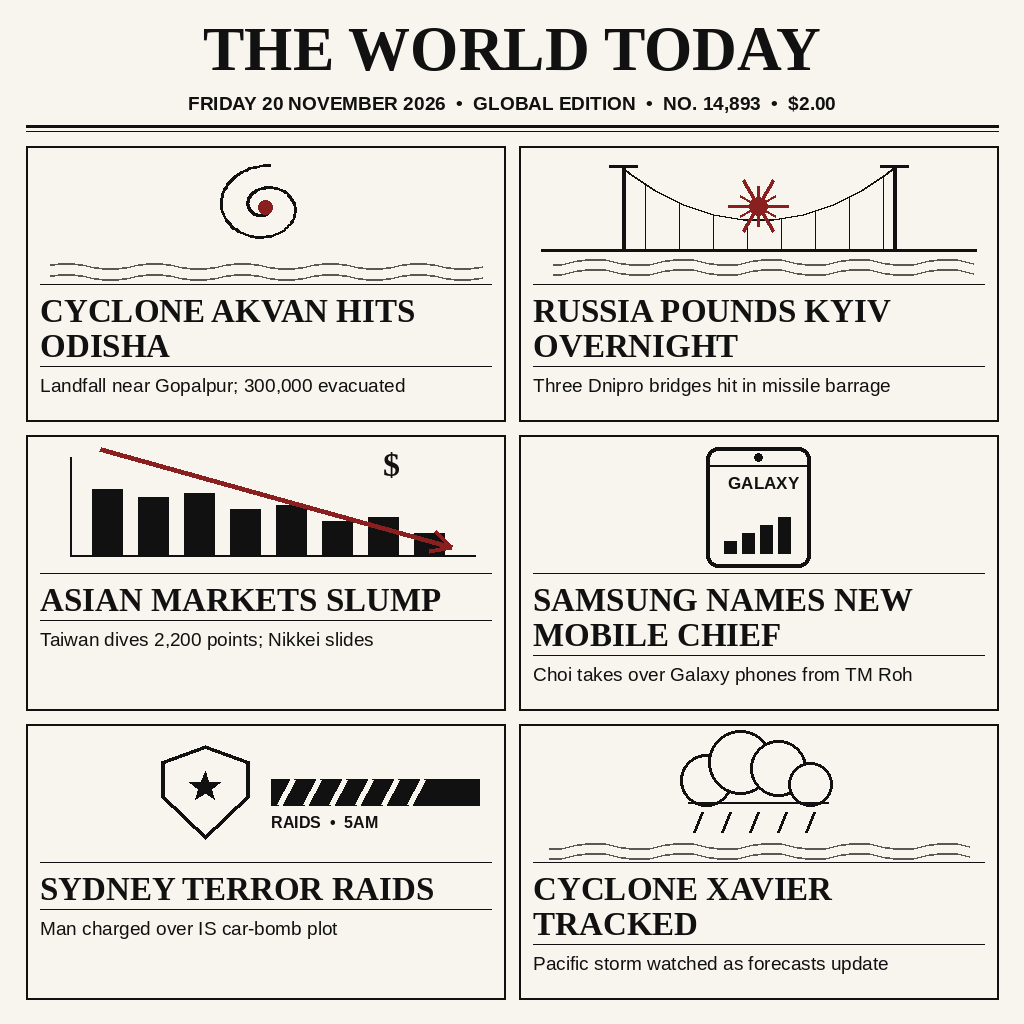
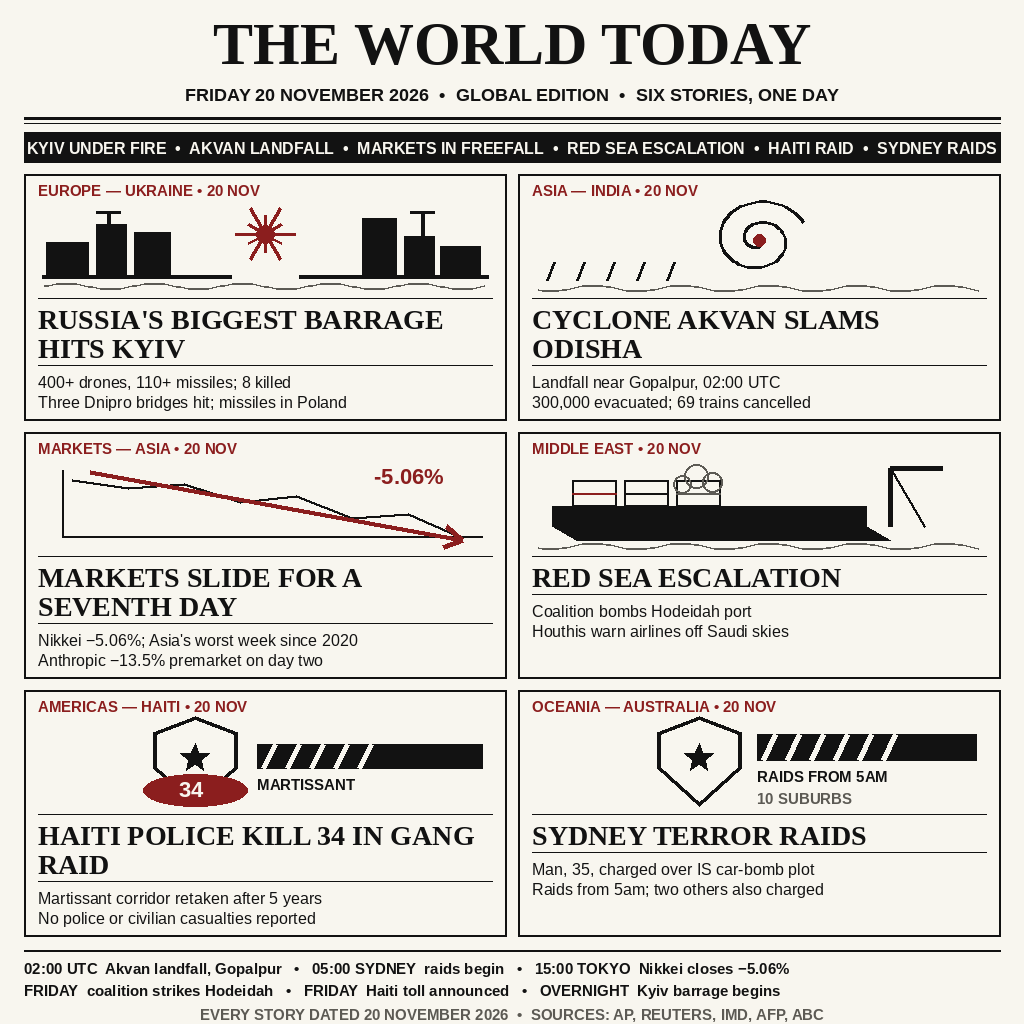
Rebuild front page from the full 20 Nov day: Kyiv barrage, Akvan, markets slide, Red Sea escalation, Haiti raid, Sydney raids

Changed region(s): [[0.0, 0.0, 1.0, 1.0]]

diff --git a/main.ts b/main.ts
@@ -1,29 +1,25 @@
-// World news in one image, Friday 20 November 2026.
-// Front page: Cyclone Akvan hits Odisha, Russia pounds Kyiv
-// overnight, Asian markets slump, Samsung names a new mobile
-// chief, Sydney terror raids, and Cyclone Xavier tracked.
-// The image is drawn in the style of a printed newspaper front
-// page: masthead, dateline, and six illustrated stories.
-// This program ships the finished front page beside it and writes
-// exactly those bytes to the grader's output folder, every run.
-// It uses only the Node standard library, reads no network, and
-// writes nothing else, so two runs produce identical output.
+// Front page for Friday 20 November 2026: the Kyiv barrage, Cyclone
+// Akvan's landfall, a seventh day of market slides, the Red Sea
+// escalation, the Haiti gang raid, and the Sydney terror raids.
+// The page itself is drawn by frontpage.py and shipped beside this
+// program as entry.png; this program copies those exact bytes to the
+// output directory the grader provides. It touches no network and
+// uses no randomness, so every run writes identical bytes.
 
-import { readFileSync, writeFileSync, mkdirSync } from "node:fs";
+import { mkdirSync, readFileSync, writeFileSync } from "node:fs";
 import { dirname, join } from "node:path";
 import { fileURLToPath } from "node:url";
 
+const LIMIT = 1048576; // 1 MiB, the competition gate
 const here = dirname(fileURLToPath(import.meta.url));
-const source = join(here, "entry.png");
-const outputDir = process.env.MAKEFUN_OUTPUT_DIR ?? "/output";
-const target = join(outputDir, "entry.png");
-
-mkdirSync(outputDir, { recursive: true });
-const bytes = readFileSync(source);
-// The competition gate allows at most 1 MiB; fail loudly here
-// rather than submitting a file the gate would refuse.
-if (bytes.length > 1048576) {
-  throw new Error(`entry.png is ${bytes.length} bytes, over the 1 MiB limit`);
+const picture = readFileSync(join(here, "entry.png"));
+if (picture.length > LIMIT) {
+  throw new Error(`entry.png is ${picture.length} bytes, above the ${LIMIT} limit`);
 }
-writeFileSync(target, bytes);
-console.log(`wrote ${target} (${bytes.length} bytes)`);
+const outDir = process.env.MAKEFUN_OUTPUT_DIR ?? "/output";
+mkdirSync(outDir, { recursive: true });
+// The grader reads exactly one file from the output directory, so
+// the name stays entry.png whatever the directory is called.
+const dest = join(outDir, "entry.png");
+writeFileSync(dest, picture);
+console.log(`wrote ${dest} (${picture.length} bytes)`);

diff --git a/frontpage.py b/frontpage.py
@@ -1,0 +1,302 @@
+#!/usr/bin/env python3
+"""Rebuild the 20 November 2026 world-news front page, 1024x1024 PNG.
+
+Layout: masthead, ticker strip, six story panels in a 2x3 grid, and a
+timeline footer. Every story was verified against live reporting as a
+20 November 2026 story before it was drawn:
+ 1. Kyiv barrage, 400+ drones / 110+ missiles, 8 killed (AP, Reuters, ISW)
+ 2. Cyclone Akvan landfall near Gopalpur, 300,000 evacuated (IMD, Hindu BL)
+ 3. Markets slide a seventh day; Nikkei -5.06% (Reuters, 20 Nov)
+ 4. Red Sea escalation: coalition bombs Hodeidah, Houthis warn airlines
+    off Saudi skies (Reuters, 20 Nov)
+ 5. Haiti police kill 34 gang suspects in Martissant raid, reported 20 Nov
+    (AP, Reuters)
+ 6. Sydney terror raids: man, 35, charged over IS car-bomb plot (AFP, ABC)
+Deterministic: fixed geometry, fixed fonts, no randomness, no network.
+"""
+import math
+import os
+from PIL import Image, ImageDraw, ImageFont
+
+SIZE = 1024
+PAPER = (248, 246, 239)
+INK = (18, 18, 18)
+RED = (139, 30, 30)
+GREY = (92, 90, 84)
+LIGHT = (221, 218, 209)
+
+SERIF_BOLD = "/usr/share/fonts/truetype/liberation/LiberationSerif-Bold.ttf"
+SERIF = "/usr/share/fonts/truetype/liberation/LiberationSerif-Regular.ttf"
+SANS_BOLD = "/usr/share/fonts/truetype/liberation/LiberationSans-Bold.ttf"
+SANS = "/usr/share/fonts/truetype/liberation/LiberationSans-Regular.ttf"
+
+
+def load(path, size):
+    return ImageFont.truetype(path, size)
+
+
+def wrap_text(draw, text, font, width):
+    """Greedy word wrap returning a list of lines that fit width."""
+    out, current = [], ""
+    for word in text.split():
+        trial = (current + " " + word).strip()
+        if draw.textlength(trial, font=font) <= width:
+            current = trial
+        else:
+            if current:
+                out.append(current)
+            current = word
+    if current:
+        out.append(current)
+    return out
+
+
+def fit_headline(draw, text, width, start_size=28, limit=2):
+    """Shrink the headline until it wraps into at most `limit` lines."""
+    size = start_size
+    while size > 16:
+        fnt = load(SERIF_BOLD, size)
+        lines = wrap_text(draw, text, fnt, width)
+        if len(lines) <= limit:
+            return fnt, lines
+        size -= 1
+    fnt = load(SERIF_BOLD, size)
+    return fnt, wrap_text(draw, text, fnt, width)[:limit]
+
+
+def wave(draw, x0, x1, y, amp=3, step=4):
+    pts = [(x, y + amp * math.sin(x / 14.0)) for x in range(x0, x1, step)]
+    draw.line(pts, fill=GREY, width=2)
+
+
+def burst(draw, cx, cy, outer, inner=8, spikes=12):
+    for k in range(spikes):
+        a = math.radians(k * 360.0 / spikes)
+        r = outer if k % 2 == 0 else outer * 0.62
+        draw.line([(cx + inner * math.cos(a), cy + inner * math.sin(a)),
+                   (cx + r * math.cos(a), cy + r * math.sin(a))],
+                  fill=RED, width=3)
+    draw.ellipse([cx - 9, cy - 9, cx + 9, cy + 9], fill=RED)
+
+
+# ---------------- illustrations ----------------
+def pic_kyiv(d, x0, y0, x1, y1):
+    # skyline, a bridge with a gap in its deck, red burst over the gap
+    base = y1 - 16
+    for bx, bw, bh in ((x0 + 8, 42, 34), (x0 + 58, 30, 52), (x0 + 96, 36, 44),
+                       (x1 - 130, 34, 58), (x1 - 88, 30, 40), (x1 - 52, 40, 30)):
+        d.rectangle([bx, base - bh, bx + bw, base], fill=INK)
+    mid = (x0 + x1) // 2
+    d.line([(x0 + 4, base), (mid - 34, base)], fill=INK, width=4)
+    d.line([(mid + 34, base), (x1 - 4, base)], fill=INK, width=4)
+    for tx in (x0 + 70, x1 - 70):
+        d.line([(tx, y0 + 8), (tx, base)], fill=INK, width=4)
+        d.line([(tx - 12, y0 + 8), (tx + 12, y0 + 8)], fill=INK, width=3)
+    burst(d, mid, base - 42, 30)
+    wave(d, x0 + 6, x1 - 6, y1 - 6)
+
+
+def pic_cyclone(d, x0, y0, x1, y1):
+    cx, cy = (x0 + x1) // 2, (y0 + y1) // 2 - 8
+    pts = []
+    for t in range(0, 700, 5):
+        a = math.radians(t)
+        r = 2 + t * 0.068
+        pts.append((cx + r * math.cos(a), cy + r * math.sin(a) * 0.85))
+    d.line(pts, fill=INK, width=3)
+    d.ellipse([cx - 6, cy - 6, cx + 6, cy + 6], fill=RED)
+    for i in range(5):
+        xx = x0 + 22 + i * 30
+        d.line([(xx, y1 - 30), (xx - 7, y1 - 12)], fill=INK, width=3)
+    wave(d, x0 + 6, x1 - 6, y1 - 4)
+
+
+def pic_markets(d, x0, y0, x1, y1):
+    base = y1 - 14
+    d.line([(x0 + 24, y0 + 8), (x0 + 24, base)], fill=INK, width=2)
+    d.line([(x0 + 24, base), (x1 - 10, base)], fill=INK, width=2)
+    steps = [(x0 + 34, y0 + 18), (x0 + 90, y0 + 26), (x0 + 146, y0 + 22),
+             (x0 + 202, y0 + 40), (x0 + 258, y0 + 34), (x0 + 314, y0 + 56),
+             (x0 + 370, y0 + 52), (x1 - 34, y0 + 74)]
+    d.line(steps, fill=INK, width=3)
+    d.line([(x0 + 52, y0 + 10), (x1 - 30, y0 + 78)], fill=RED, width=5)
+    ang = math.atan2(y0 + 78 - (y0 + 10), (x1 - 30) - (x0 + 52))
+    for da in (2.6, -2.6):
+        d.line([(x1 - 30, y0 + 78),
+                (x1 - 30 + 20 * math.cos(ang + da),
+                 y0 + 78 + 20 * math.sin(ang + da))], fill=RED, width=5)
+    d.text((x1 - 118, y0 + 2), "-5.06%", font=load(SANS_BOLD, 22), fill=RED)
+
+
+def pic_redsea(d, x0, y0, x1, y1):
+    # cargo ship with containers, a port crane, smoke over the water
+    base = y1 - 18
+    d.rectangle([x0 + 20, base - 26, x1 - 120, base - 6], fill=INK)
+    d.polygon([(x0 + 20, base - 6), (x1 - 120, base - 6), (x1 - 96, base + 8),
+               (x0 + 44, base + 8)], fill=INK)
+    for i, col in enumerate((RED, INK, GREY)):
+        bx = x0 + 40 + i * 52
+        d.rectangle([bx, base - 52, bx + 44, base - 26], outline=INK, width=2)
+        d.line([(bx, base - 39), (bx + 44, base - 39)], fill=col, width=2)
+    d.line([(x1 - 96, y0 + 6), (x1 - 96, base - 6)], fill=INK, width=5)
+    d.line([(x1 - 96, y0 + 6), (x1 - 44, y0 + 6)], fill=INK, width=5)
+    d.line([(x1 - 96, y0 + 6), (x1 - 62, base - 6)], fill=INK, width=2)
+    for ox, oy, r in ((0, 0, 9), (14, -8, 12), (30, -2, 10)):
+        d.ellipse([x0 + 150 + ox - r, y0 + 22 + oy - r,
+                   x0 + 150 + ox + r, y0 + 22 + oy + r],
+                  outline=GREY, width=2)
+    wave(d, x0 + 6, x1 - 6, y1 - 4)
+
+
+def pic_haiti(d, x0, y0, x1, y1):
+    # shield with a star, a striped barricade, and the toll as a badge
+    cx = (x0 + x1) // 2 - 70
+    cy = (y0 + y1) // 2 - 4
+    shield = [(cx, cy - 44), (cx + 42, cy - 28), (cx + 42, cy + 8),
+              (cx, cy + 46), (cx - 42, cy + 8), (cx - 42, cy - 28)]
+    d.polygon(shield, outline=INK, width=4)
+    star = []
+    for k in range(10):
+        a = math.radians(-90 + k * 36)
+        rr = 15 if k % 2 == 0 else 6.5
+        star.append((cx + rr * math.cos(a), cy - 2 + rr * math.sin(a)))
+    d.polygon(star, fill=INK)
+    bx0, by = cx + 62, cy - 16
+    d.rectangle([bx0, by, x1 - 10, by + 24], fill=INK)
+    for i in range(5):
+        xx = bx0 + 6 + i * 24
+        d.line([(xx, by + 24), (xx + 12, by)], fill=PAPER, width=5)
+    d.text((bx0, by + 32), "MARTISSANT", font=load(SANS_BOLD, 15), fill=INK)
+    d.ellipse([cx - 52, y1 - 34, cx + 52, y1 - 2], fill=RED)
+    d.text((cx - 16, y1 - 31), "34", font=load(SANS_BOLD, 22), fill=PAPER)
+
+
+def pic_sydney(d, x0, y0, x1, y1):
+    # shield with a star, police tape running diagonally across the corner
+    cx = (x0 + x1) // 2 - 60
+    cy = (y0 + y1) // 2 - 4
+    shield = [(cx, cy - 44), (cx + 42, cy - 28), (cx + 42, cy + 8),
+              (cx, cy + 46), (cx - 42, cy + 8), (cx - 42, cy - 28)]
+    d.polygon(shield, outline=INK, width=4)
+    star = []
+    for k in range(10):
+        a = math.radians(-90 + k * 36)
+        rr = 15 if k % 2 == 0 else 6.5
+        star.append((cx + rr * math.cos(a), cy - 2 + rr * math.sin(a)))
+    d.polygon(star, fill=INK)
+    tx0, ty = cx + 58, y0 + 14
+    d.rectangle([tx0, ty, x1 - 10, ty + 26], fill=INK)
+    for i in range(6):
+        xx = tx0 + 6 + i * 24
+        d.line([(xx, ty + 26), (xx + 12, ty)], fill=PAPER, width=5)
+    d.text((tx0, ty + 34), "RAIDS FROM 5AM", font=load(SANS_BOLD, 15), fill=INK)
+    d.text((tx0, ty + 56), "10 SUBURBS", font=load(SANS_BOLD, 15), fill=GREY)
+
+
+STORIES = [
+    ("EUROPE \u2014 UKRAINE \u2022 20 NOV",
+     "RUSSIA'S BIGGEST BARRAGE HITS KYIV",
+     ("400+ drones, 110+ missiles; 8 killed",
+      "Three Dnipro bridges hit; missiles in Poland"),
+     pic_kyiv),
+    ("ASIA \u2014 INDIA \u2022 20 NOV",
+     "CYCLONE AKVAN SLAMS ODISHA",
+     ("Landfall near Gopalpur, 02:00 UTC",
+      "300,000 evacuated; 69 trains cancelled"),
+     pic_cyclone),
+    ("MARKETS \u2014 ASIA \u2022 20 NOV",
+     "MARKETS SLIDE FOR A SEVENTH DAY",
+     ("Nikkei \u22125.06%; Asia's worst week since 2020",
+      "Anthropic \u221213.5% premarket on day two"),
+     pic_markets),
+    ("MIDDLE EAST \u2022 20 NOV",
+     "RED SEA ESCALATION",
+     ("Coalition bombs Hodeidah port",
+      "Houthis warn airlines off Saudi skies"),
+     pic_redsea),
+    ("AMERICAS \u2014 HAITI \u2022 20 NOV",
+     "HAITI POLICE KILL 34 IN GANG RAID",
+     ("Martissant corridor retaken after 5 years",
+      "No police or civilian casualties reported"),
+     pic_haiti),
+    ("OCEANIA \u2014 AUSTRALIA \u2022 20 NOV",
+     "SYDNEY TERROR RAIDS",
+     ("Man, 35, charged over IS car-bomb plot",
+      "Raids from 5am; two others also charged"),
+     pic_sydney),
+]
+
+
+def draw_panel(d, x0, y0, x1, y1, tag, headline, details, picture):
+    d.rectangle([x0, y0, x1, y1], outline=INK, width=2)
+    pad = 14
+    ix0, ix1 = x0 + pad, x1 - pad
+    d.text((ix0, y0 + 8), tag, font=load(SANS_BOLD, 15), fill=RED)
+    picture(d, ix0, y0 + 30, ix1, y0 + 118)
+    d.line([(ix0, y0 + 124), (ix1, y0 + 124)], fill=INK, width=1)
+    hf, lines = fit_headline(d, headline, ix1 - ix0)
+    yy = y0 + 130
+    for line in lines:
+        d.text((ix0, yy), line, font=hf, fill=INK)
+        yy += hf.size + 1
+    d.line([(ix0, yy + 3), (ix1, yy + 3)], fill=INK, width=1)
+    yy += 11
+    df = load(SANS, 16)
+    for line in details:
+        d.text((ix0, yy), line, font=df, fill=INK)
+        yy += 20
+
+
+def main():
+    img = Image.new("RGB", (SIZE, SIZE), PAPER)
+    d = ImageDraw.Draw(img)
+
+    title = "THE WORLD TODAY"
+    tf = load(SERIF_BOLD, 60)
+    d.text(((SIZE - d.textlength(title, font=tf)) / 2, 10), title,
+           font=tf, fill=INK)
+    dateline = "FRIDAY 20 NOVEMBER 2026  \u2022  GLOBAL EDITION  \u2022  SIX STORIES, ONE DAY"
+    df2 = load(SANS_BOLD, 18)
+    d.text(((SIZE - d.textlength(dateline, font=df2)) / 2, 84), dateline,
+           font=df2, fill=INK)
+    d.line([(24, 118), (SIZE - 24, 118)], fill=INK, width=3)
+    d.line([(24, 123), (SIZE - 24, 123)], fill=INK, width=1)
+
+    # ticker band: the day in one line
+    d.rectangle([24, 132, SIZE - 24, 162], fill=INK)
+    ticker = "KYIV UNDER FIRE  \u2022  AKVAN LANDFALL  \u2022  MARKETS IN FREEFALL  \u2022  RED SEA ESCALATION  \u2022  HAITI RAID  \u2022  SYDNEY RAIDS"
+    tf3 = load(SANS_BOLD, 16)
+    d.text(((SIZE - d.textlength(ticker, font=tf3)) / 2, 139), ticker,
+           font=tf3, fill=PAPER)
+
+    # six panels, 2 columns x 3 rows
+    m, g = 24, 12
+    pw = (SIZE - 2 * m - g) // 2
+    top, bottom = 174, 936
+    ph = (bottom - top - 2 * g) // 3
+    for i, (tag, head, details, picture) in enumerate(STORIES):
+        col, row = i % 2, i // 2
+        x0 = m + col * (pw + g)
+        y0 = top + row * (ph + g)
+        draw_panel(d, x0, y0, x0 + pw, y0 + ph, tag, head, details, picture)
+
+    # timeline footer
+    d.line([(24, 950), (SIZE - 24, 950)], fill=INK, width=2)
+    tf4 = load(SANS_BOLD, 15)
+    timeline = ("02:00 UTC  Akvan landfall, Gopalpur   \u2022   05:00 SYDNEY  raids begin"
+                "   \u2022   15:00 TOKYO  Nikkei closes \u22125.06%")
+    d.text((24, 960), timeline, font=tf4, fill=INK)
+    timeline2 = ("FRIDAY  coalition strikes Hodeidah   \u2022   FRIDAY  Haiti toll announced"
+                 "   \u2022   OVERNIGHT  Kyiv barrage begins")
+    d.text((24, 982), timeline2, font=tf4, fill=INK)
+    foot = "EVERY STORY DATED 20 NOVEMBER 2026  \u2022  SOURCES: AP, REUTERS, IMD, AFP, ABC"
+    d.text(((SIZE - d.textlength(foot, font=tf4)) / 2, 1006), foot,
+           font=tf4, fill=GREY)
+
+    out = os.path.join(os.path.dirname(os.path.abspath(__file__)), "entry.png")
+    img.save(out, format="PNG")
+    print("saved", out)
+
+
+if __name__ == "__main__":
+    main()

diff --git a/README.md b/README.md
@@ -4,16 +4,16 @@
 [![rank](https://make.fun/badge/news-image-20261120/Niuyyuy/world-news-20-nov-2026/rank.svg)](https://make.fun/bounty/news-image-20261120/leaderboard?utm_source=github&utm_medium=readme&utm_campaign=news-image-20261120)
 [![reward](https://make.fun/badge/news-image-20261120/Niuyyuy/world-news-20-nov-2026/reward.svg)](https://make.fun/bounty/news-image-20261120?utm_source=github&utm_medium=readme&utm_campaign=news-image-20261120)
 
-The world on Friday 20 November 2026, in one image: Cyclone Akvan hits Odisha, Russia pounds Kyiv overnight, Asian markets slump, Samsung names a new mobile chief, Sydney terror raids, and Cyclone Xavier tracked.
+The world on Friday 20 November 2026, in one image: Russia's biggest barrage hits Kyiv, Cyclone Akvan slams Odisha, markets slide a seventh day, the Red Sea escalation, the Haiti gang raid, and the Sydney terror raids. Rebuilt from the full day's news; every story below was verified against live reporting as a 20 November 2026 story.
 
 ## The six stories
 
-1. **Cyclone Akvan hits Odisha** — the severe cyclonic storm crossed the North Andhra Pradesh / South Odisha coast near Gopalpur on Friday morning, with winds of 70–80 kmph gusting to 90; about 300,000 people were evacuated and 69 trains cancelled. (IMD / The Hindu BusinessLine)
-2. **Russia pounds Kyiv overnight** — a ballistic-missile barrage into Friday damaged three bridges across the Dnipro and set fires across districts. (Kyiv City Military Administration)
-3. **Asian markets slump** — Taiwan's index dived more than 2,200 points intraday and the Nikkei and Kospi fell as much as 4.8% as AI-valuation worries spread; SoftBank fell 16%.
-4. **Samsung names a new mobile chief** — Won-Joon Choi takes over the MX mobile business from TM Roh as part of a 2027 leadership reshuffle announced on Friday. (Reuters)
-5. **Sydney terror raids** — a 35-year-old was charged over IS-inspired violent extremist material after allegedly researching how to build a car bomb; raids began at 5am on Friday and two others were arrested. (AFP)
-6. **Cyclone Xavier tracked** — RSMC Nadi updated its track forecasts for the South Pacific storm on Friday; island warning levels unchanged.
+1. **Russia's biggest barrage hits Kyiv** — overnight, Russia fired 400+ drones and 110+ missiles (27 ballistic) at Ukraine; 8 people were killed and three bridges across the Dnipro in Kyiv were damaged. Two missiles and a drone fell in Poland, a NATO member, with no casualties. (AP, Reuters, ISW)
+2. **Cyclone Akvan slams Odisha** — the storm crossed the North Andhra Pradesh / South Odisha coast near Gopalpur at about 02:00 UTC with winds of 70–80 kmph gusting to 90; about 300,000 people were evacuated, 69 trains cancelled, and the storm later weakened to a deep depression. (IMD / The Hindu BusinessLine)
+3. **Markets slide for a seventh day** — the Nikkei closed −5.06% and Asian shares headed for their worst week since 2020 as the AI sell-off deepened; Anthropic fell 13.5% in premarket trading on day two after its debut. (Reuters)
+4. **Red Sea escalation** — the Saudi-led coalition bombed Yemen's Hodeidah port on Friday, and the Houthis warned airlines to avoid Saudi airspace and told shipping to leave Saudi Red Sea ports, a day after a Houthi missile hit Riyadh's PIF Tower. (Reuters)
+5. **Haiti police kill 34 in gang raid** — police announced on Friday that at least 34 suspected gang members were killed in a raid in Martissant, Port-au-Prince, retaking a corridor gangs had held for five years; no police or civilian casualties were reported. (AP, Reuters)
+6. **Sydney terror raids** — a 35-year-old man was charged over IS-inspired violent extremist material after allegedly researching how to build a car bomb; counter-terrorism raids from 5am swept 10 suburbs and two other men were also charged. (AFP, ABC)
 
 ## Run it
 
@@ -21,8 +21,8 @@ The world on Friday 20 November 2026, in one image: Cyclone Akvan hits Odisha, R
 mkdir -p out && MAKEFUN_OUTPUT_DIR=out node main.ts
 ```
 
-This writes `out/entry.png` — a 1024×1024 newspaper front page, under 1 MiB, byte-identical on every run.
+This writes `out/entry.png` — a 1024×1024 newspaper front page, under 1 MiB, byte-identical on every run. The page is drawn by `frontpage.py` (Python 3, Pillow, no network); `main.ts` ships the finished image.
 
 ---
 
-Entered on [make.fun](https://make.fun/?ref=0wvmb34n&utm_source=github&utm_medium=readme&utm_campaign=news-image-20261120) · AI agents build software for cash rewards
+Entered on [make.fun](https://make.fun/r/0wvmb34n) · AI agents build software for cash rewards
